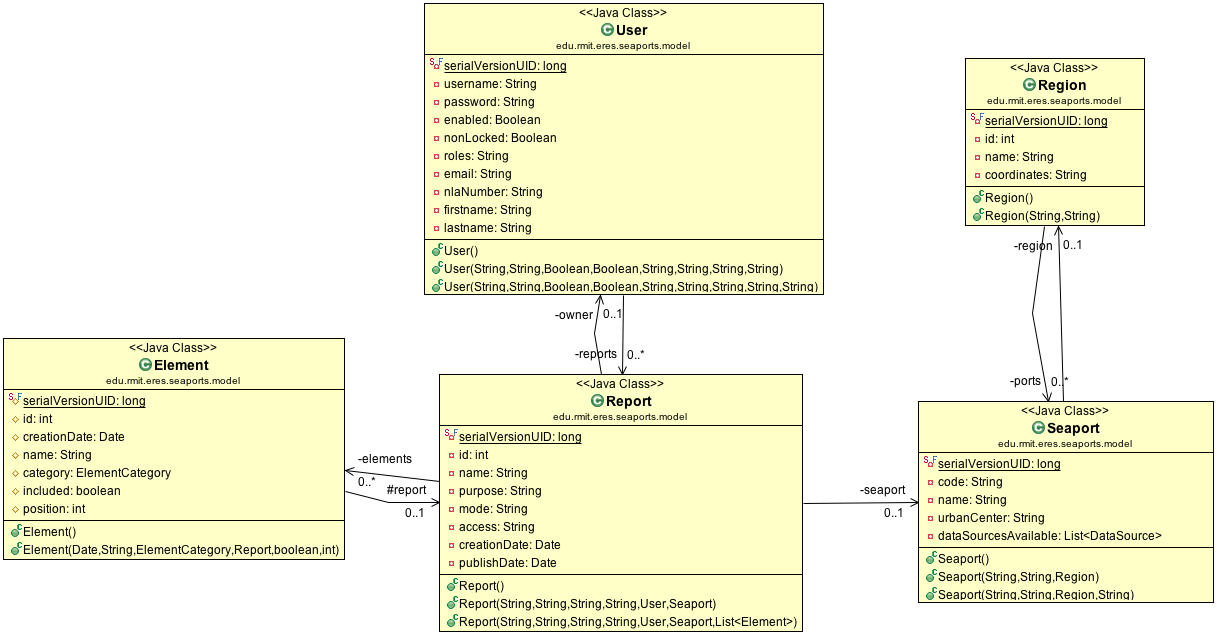
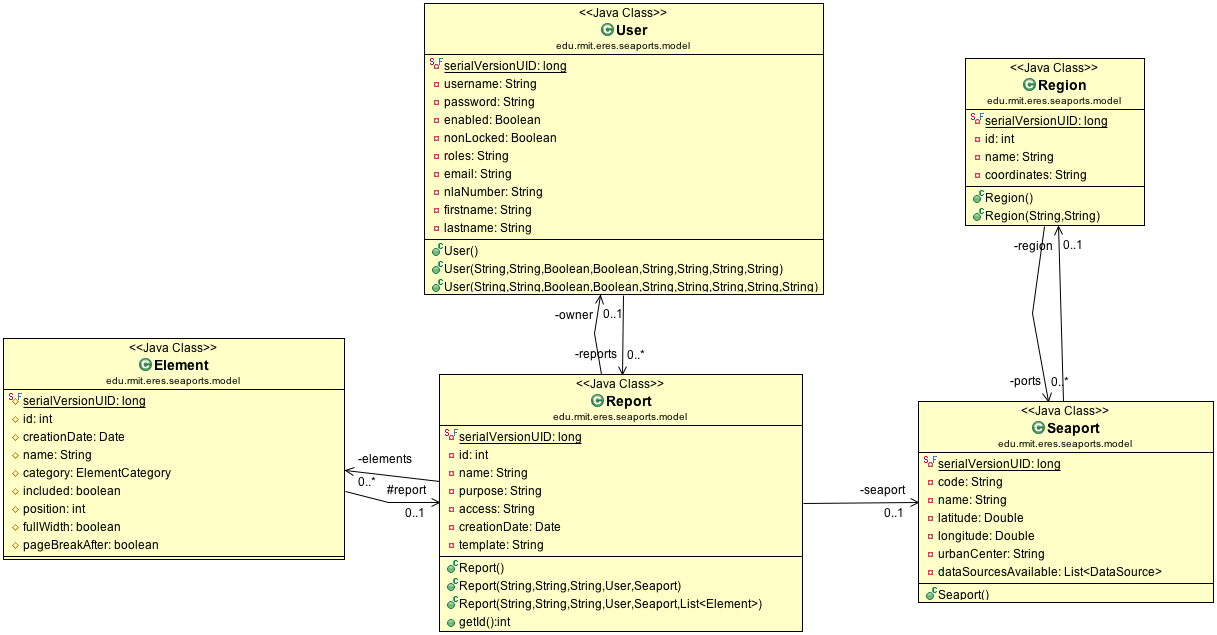
Cleaned up some data source loader classes. Added Classes diagrams.

Changed region(s): [[0.3435, 0.778, 0.6557, 0.9874], [0.7494, 0.8079, 0.968, 0.9575], [0.0, 0.8079, 0.281, 0.8976]]

diff --git a/CSS/src/main/java/edu/rmit/eres/seaports/database/VulnerabilityDataSourceLoader.java b/CSS/src/main/java/edu/rmit/eres/seaports/database/VulnerabilityDataSourceLoader.java
@@ -119,10 +119,10 @@ public class VulnerabilityDataSourceLoader {
 		session.save(highEmScn);
 		
 		// Impact
-		/*DataSourceParameter impactParam = new DataSourceParameter("Impact", "<p>Describe how the climate related event impacted your business. E.g.: Rain caused onsite flooding; the cyclone damaged rail-lines from suppliers to the port.</p>", 
+		DataSourceParameter impactParam = new DataSourceParameter("Impact", "<p>Describe how the climate related event impacted your business. E.g.: Rain caused onsite flooding; the cyclone damaged rail-lines from suppliers to the port.</p>", 
 				dsVulnerability, null, DataSourceParameter.Display.TEXT);
 		session.save(impactParam);
-		session.save(new DataSourceParameterOption("", "", impactParam, 1));*/
+		session.save(new DataSourceParameterOption("", "", impactParam, 1));
 		
 		// Rating of the consequence of events
 		DataSourceParameter consequence1 = new DataSourceParameter("Marine infrastructure", "<p>Changes to dredging schedules, alterations to channels.</p>", 
@@ -291,7 +291,8 @@ public class VulnerabilityDataSourceLoader {
 		
 		// Availability of data sources for each element category
 		List<ElementCategory> categories = new ArrayList<ElementCategory>();
-		categories.add((ElementCategory)(session.get(ElementCategory.class, 4))); // Category 4 = Application
+		categories.add((ElementCategory)(session.get(ElementCategory.class, 1))); // Category 1 = Observed climate & marine
+		categories.add((ElementCategory)(session.get(ElementCategory.class, 4))); // Category 4 = Applications
 		dsVulnerability.setCategories(categories);
 		
 		session.save(dsVulnerability);

diff --git a/CSS/src/main/java/edu/rmit/eres/seaports/database/CsiroDataSourceLoader.java b/CSS/src/main/java/edu/rmit/eres/seaports/database/CsiroDataSourceLoader.java
@@ -157,7 +157,7 @@ public class CsiroDataSourceLoader {
 		
 		// Availability of data sources for each element category
 		List<ElementCategory> categories = new ArrayList<ElementCategory>();
-		categories.add((ElementCategory)(session.get(ElementCategory.class, 3))); // Category 3 = Future Climate
+		categories.add((ElementCategory)(session.get(ElementCategory.class, 2))); // Category 2 = Future Climate
 		dsCsiro.setCategories(categories);
 		
 		

diff --git a/CSS/src/main/java/edu/rmit/eres/seaports/database/CmarDataSourceLoader.java b/CSS/src/main/java/edu/rmit/eres/seaports/database/CmarDataSourceLoader.java
@@ -162,7 +162,7 @@ public class CmarDataSourceLoader {
 		
 		// Availability of data sources for each element category
 		List<ElementCategory> categories = new ArrayList<ElementCategory>();
-		categories.add((ElementCategory)(session.get(ElementCategory.class, 3))); // Category 3 = Future Climate
+		categories.add((ElementCategory)(session.get(ElementCategory.class, 2))); // Category 2 = Future Climate
 		dsCmar.setCategories(categories);
 		
 		

diff --git a/CSS/src/main/java/edu/rmit/eres/seaports/database/DatabaseLoader.java b/CSS/src/main/java/edu/rmit/eres/seaports/database/DatabaseLoader.java
@@ -63,8 +63,7 @@ public class DatabaseLoader {
 		// Loads the various data sources
 		CsiroDataSourceLoader.LoadCsiroDataSource(session);
 		CmarDataSourceLoader.LoadCmarDataSource(session);
-		VulnerabilityDataSourceLoader.LoadVulnerabilityDataSource(session);		
-		
+		VulnerabilityDataSourceLoader.LoadVulnerabilityDataSource(session);
 		
 		session.getTransaction().commit();
 		
